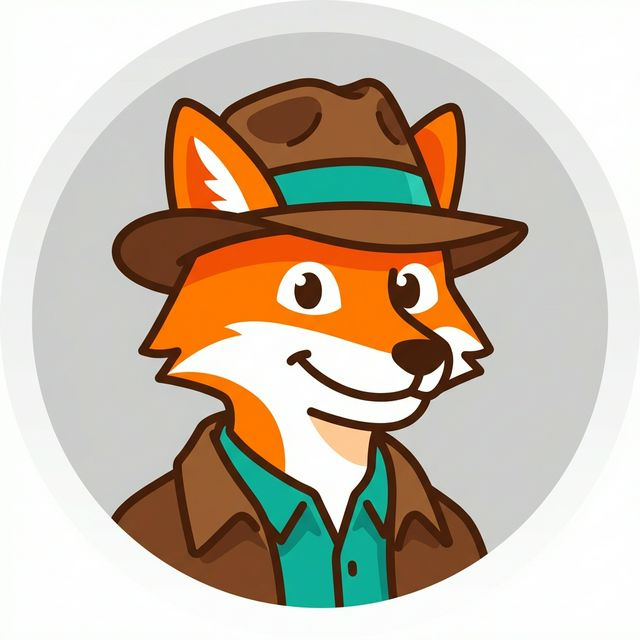
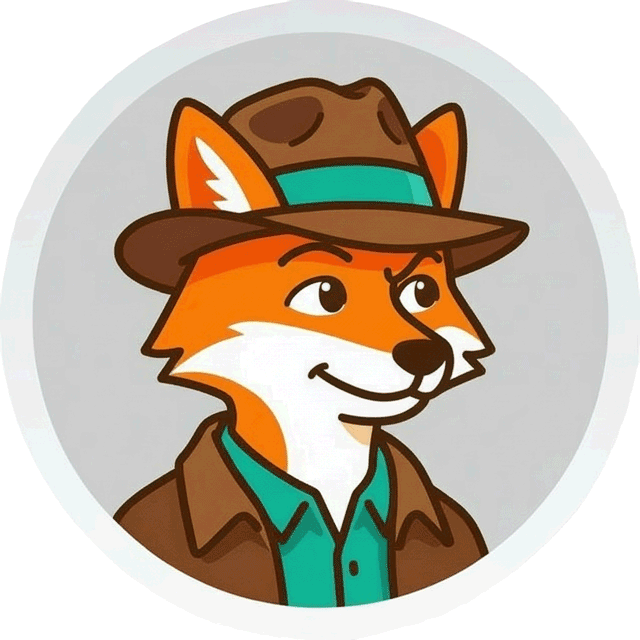
Fix mobile layout overflow and update mascot images
- GamificationBar: restructure for mobile — left group (Level, Streak,
  bonus badge) spreads full width with justify-between on mobile, then
  collapses to a tight left-pinned cluster on sm+; XP progress bar
  takes full width below on mobile and sits right-pinned on sm+; gap
  between the two groups grows naturally with the container width
- FlashcardActions: replace fixed min-w-[160px] buttons with flex-1
  max-w-[200px] so they fill available space on narrow screens instead
  of overflowing
- FlashcardsPage: add w-full to New Set confirmation panel so it
  shrinks to fit the viewport on mobile rather than forcing a fixed width
- Update mascot images (header_default, header_disappointed)

diff --git a/client/src/lib/components/flashcard/GamificationBar.svelte b/client/src/lib/components/flashcard/GamificationBar.svelte
@@ -18,31 +18,56 @@
 <div
   class="bg-gradient-to-r from-teal-600 to-emerald-600 text-white px-4 py-3 shadow-md"
 >
-  <div
-    class="container mx-auto flex flex-wrap items-center justify-between gap-4"
-  >
-    <!-- Level -->
-    <div class="flex items-center gap-3">
-      <div
-        class="w-10 h-10 rounded-full bg-white/20 backdrop-blur-sm flex items-center justify-center"
+  <div class="container mx-auto flex flex-col gap-2 sm:flex-row sm:items-center sm:justify-between sm:gap-6">
+    <!-- Left group: Level + Streak + Bonus (always together) -->
+    <div class="flex items-center justify-between sm:justify-start gap-4 sm:gap-5">
+      <!-- Level -->
+      <div class="flex items-center gap-2 sm:gap-3">
+        <div
+          class="w-8 h-8 sm:w-10 sm:h-10 rounded-full bg-white/20 backdrop-blur-sm flex items-center justify-center"
+        >
+          <Trophy class="w-4 h-4 sm:w-5 sm:h-5" />
+        </div>
+        <div class="leading-tight">
+          <p class="text-xs opacity-90 font-medium">Level</p>
+          <p class="text-xl sm:text-2xl font-bold">{actualLevel}</p>
+        </div>
+      </div>
+
+      <!-- Streak -->
+      <div class="flex items-center gap-2 sm:gap-3">
+        <div
+          class="w-8 h-8 sm:w-10 sm:h-10 rounded-full bg-yellow-500/20 backdrop-blur-sm flex items-center justify-center"
+        >
+          <Flame class="w-4 h-4 sm:w-5 sm:h-5 text-yellow-300" />
+        </div>
+        <div class="leading-tight">
+          <p class="text-xs opacity-90 font-medium">Streak</p>
+          <p class="text-xl sm:text-2xl font-bold">
+            {streak}<span class="text-base">d</span>
+          </p>
+        </div>
+      </div>
+
+      <!-- Correct Streak Bonus -->
+      <Badge
+        variant="warning"
+        class="flex items-center gap-1 sm:gap-1.5 text-xs sm:text-sm px-2 sm:px-3 py-1 sm:py-1.5"
       >
-        <Trophy class="w-5 h-5" />
-      </div>
-      <div class="leading-tight">
-        <p class="text-xs opacity-90 font-medium">Level</p>
-        <p class="text-2xl font-bold">{actualLevel}</p>
-      </div>
+        <Zap class="w-3 h-3 sm:w-4 sm:h-4" />
+        +{correctStreakBonus} XP
+      </Badge>
     </div>
 
-    <!-- XP Progress -->
-    <div class="flex-1 min-w-[200px] max-w-md">
+    <!-- XP Progress: full width on mobile, right-aligned on sm+ with max width -->
+    <div class="w-full sm:w-auto sm:min-w-[220px] sm:max-w-xs">
       <div class="flex items-center justify-between mb-1.5">
-        <span class="text-sm opacity-90 font-medium">XP Progress</span>
-        <span class="text-sm font-semibold"
+        <span class="text-xs sm:text-sm opacity-90 font-medium">XP Progress</span>
+        <span class="text-xs sm:text-sm font-semibold"
           >{xpIntoLevel} / {xpNeededForLevel}</span
         >
       </div>
-      <div class="h-3 w-full bg-white/20 rounded-full overflow-hidden">
+      <div class="h-2.5 sm:h-3 w-full bg-white/20 rounded-full overflow-hidden">
         <div
           class="h-full bg-white rounded-full transition-all duration-500 shadow-sm"
           style="width: {progress}%"
@@ -55,29 +80,5 @@
         >
       </div>
     </div>
-
-    <!-- Streak -->
-    <div class="flex items-center gap-3">
-      <div
-        class="w-10 h-10 rounded-full bg-yellow-500/20 backdrop-blur-sm flex items-center justify-center"
-      >
-        <Flame class="w-5 h-5 text-yellow-300" />
-      </div>
-      <div class="leading-tight">
-        <p class="text-xs opacity-90 font-medium">Streak</p>
-        <p class="text-2xl font-bold">
-          {streak}<span class="text-base">d</span>
-        </p>
-      </div>
-    </div>
-
-    <!-- Correct Streak Bonus -->
-    <Badge
-      variant="warning"
-      class="flex items-center gap-1.5 text-sm px-3 py-1.5"
-    >
-      <Zap class="w-4 h-4" />
-      +{correctStreakBonus} XP
-    </Badge>
   </div>
 </div>

diff --git a/client/src/lib/components/flashcard/FlashcardActions.svelte b/client/src/lib/components/flashcard/FlashcardActions.svelte
@@ -12,13 +12,13 @@
   }>();
 </script>
 
-<div class="flex items-center justify-center gap-4">
+<div class="flex items-center justify-center gap-3 w-full px-2">
   <Button
     variant="ghost"
     size="lg"
     on:click={() => dispatch('notYet')}
     disabled={disabled || loading}
-    class="min-w-[160px] border-2 border-red-300 dark:border-red-700 text-red-700 dark:text-red-400 hover:bg-red-50 dark:hover:bg-red-900/20"
+    class="flex-1 max-w-[200px] border-2 border-red-300 dark:border-red-700 text-red-700 dark:text-red-400 hover:bg-red-50 dark:hover:bg-red-900/20"
   >
     <X class="w-5 h-5 mr-2" />
     Not Yet
@@ -29,7 +29,7 @@
     size="lg"
     on:click={() => dispatch('know')}
     disabled={disabled || loading}
-    class="min-w-[160px] bg-gradient-to-r from-teal-600 to-emerald-600 hover:from-teal-700 hover:to-emerald-700"
+    class="flex-1 max-w-[200px] bg-gradient-to-r from-teal-600 to-emerald-600 hover:from-teal-700 hover:to-emerald-700"
   >
     <Check class="w-5 h-5 mr-2" />
     I Know It!

diff --git a/client/src/routes/FlashcardsPage.svelte b/client/src/routes/FlashcardsPage.svelte
@@ -380,7 +380,7 @@
         <!-- New Set Button / Confirmation -->
         <div class="flex justify-center">
           {#if showNewSetConfirm}
-            <div class="text-center space-y-2 p-4 bg-amber-50 dark:bg-gray-800 border border-amber-300 dark:border-amber-600 rounded-lg max-w-sm">
+            <div class="text-center space-y-2 p-4 bg-amber-50 dark:bg-gray-800 border border-amber-300 dark:border-amber-600 rounded-lg w-full max-w-sm">
               <p class="text-sm font-semibold text-amber-900 dark:text-amber-200">
                 Start a new set?
               </p>
